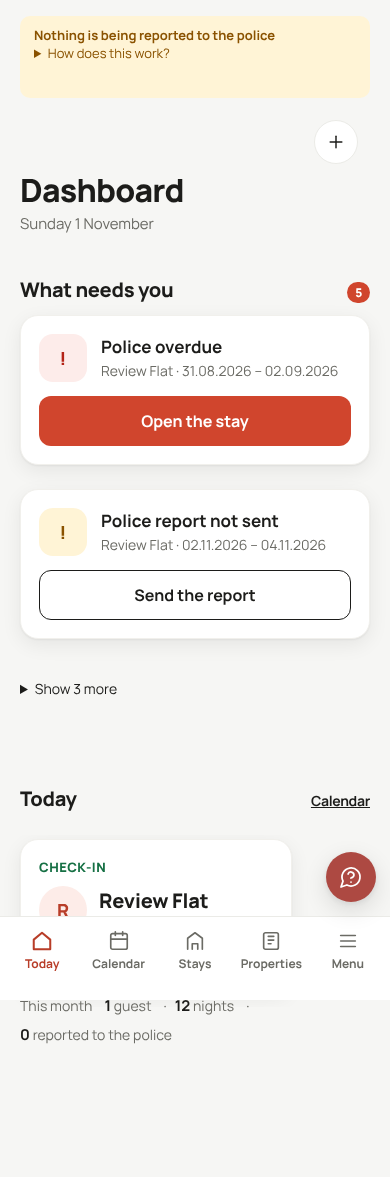
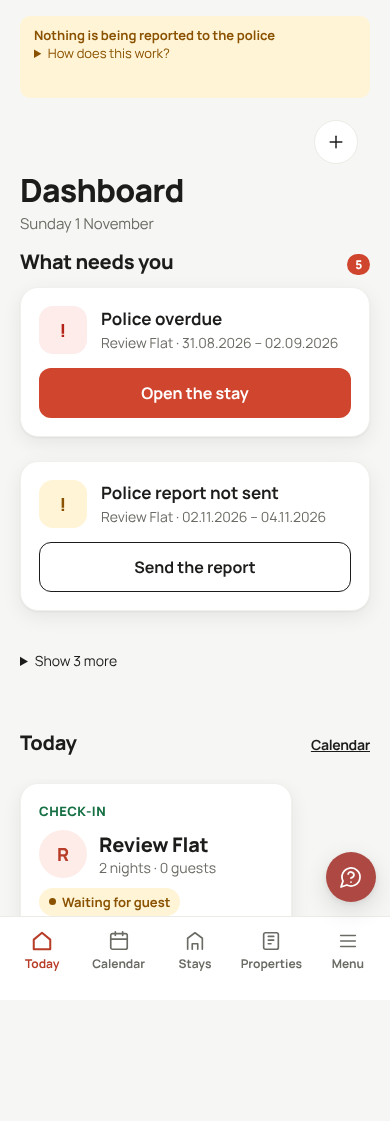
0723 step 5: phone overview gaps, calendar test tolerance, needs-you test repoint, report

diff --git a/App/app/static/app2.css b/App/app/static/app2.css
@@ -510,5 +510,6 @@ body.v2 .onboarding-intro .onboarding-logo{width: 64px; height: auto; max-width:
 @media (min-width:1024px){#needs-action .ny-sum-phone{display:none}#needs-action .ny-phone-only{display:none}}
 /* 0722: on phone the month line goes last, after Dnes (mockup order). */
 @media (max-width:1023px){body.v2 .ui-body:has(> .ov-month){display:flex;flex-direction:column}body.v2 .ov-month{order:1}}
+@media (max-width:1023px){body.v2 .ov-head{margin-bottom:-22px}body.v2 details.needs-you-more.ov-section{margin-bottom:0}}
 /* 0722: phone action buttons keep the 44 px touch target of the mockup. */
 @media (max-width:1023px){body.v2 .needs-you-actions .btn{min-height:44px}}

diff --git a/App/app/templates/base.html b/App/app/templates/base.html
@@ -18,7 +18,7 @@
   <link rel="preload" href="/static/fonts/Manrope-latin.woff2?v=20261101-0495" as="font" type="font/woff2" crossorigin>
   {% if v2 | default(false) %}
   <link rel="stylesheet" href="/static/tokens.css?v=20261101-0495">
-  <link rel="stylesheet" href="/static/app2.css?v=20261101-0723">
+  <link rel="stylesheet" href="/static/app2.css?v=20261101-0723c">
   {% else %}
   <link rel="stylesheet" href="/static/tokens.css?v=20261101-0495">
   <link rel="stylesheet" href="/static/app.css?v=20261027-signup-wrap">

diff --git a/App/tests/test_needs_you_0240.py b/App/tests/test_needs_you_0240.py
@@ -41,11 +41,11 @@ def test_each_stay_gets_one_plain_line_with_the_exact_button():
         _row(4, "incomplete", days=-1, urgency="overdue"),
     ]
     lines = {line["stay_id"]: line for line in _build(rows)["lines"]}
-    assert lines[1]["text"] == "The police did not accept the report." and lines[1]["href"].endswith("#guests")
+    assert lines[1]["text"] == "Police report failed" and lines[1]["href"].endswith("#guests")
     assert lines[2]["action"] == "Send the report" and lines[2]["href"].endswith("#now")
-    assert lines[3]["text"] == "The guest arrives tomorrow and has not filled in the guest form."
+    assert lines[3]["text"] == "Guests not registered"
     assert lines[3]["href"] == "/reservations/3?return_to=/#now"
-    assert lines[4]["tone"] == "red" and lines[4]["text"] == "The police deadline has passed."
+    assert lines[4]["tone"] == "red" and lines[4]["text"] == "Police overdue"
 
 
 def test_red_lines_come_first():
@@ -67,12 +67,13 @@ def test_an_alert_for_a_stay_with_its_own_line_is_not_repeated():
     assert lines[1]["action"] == "Check the calendar" and lines[1]["dismiss_id"] == 8
 
 
-def test_setup_and_paste_lines_name_the_property():
+def test_setup_and_paste_lines_name_the_property(monkeypatch):
+    monkeypatch.setattr("app.demo.is_demo_apartment", lambda apartment: False)  # 0723: no DB in this unit test
     missing = [{"apartment": {"id": 5, "internal_name": "Loft", "legal_entity_id": None}, "missing": [{"key": "ubyport", "anchor": "ubyport"}]}]
     unused = [{"id": 6, "internal_name": "Studio"}]
     lines = _build([], missing=missing, unused=unused, lang="cs")["lines"]
     assert lines[0]["subject"] == "Loft" and lines[0]["href"] == "/apartments/5?view=settings&section=reporting#ubyport"
-    assert lines[0]["text"] == "Chybí údaje pro policii, takže zatím nemůže odejít žádné hlášení."
+    assert lines[0]["text"] == "Chybí údaje pro policii"
     assert lines[1]["subject"] == "Studio" and lines[1]["href"].endswith("#communication")
 
 

diff --git a/App/tests/test_dashboard_calendar_browser.py b/App/tests/test_dashboard_calendar_browser.py
@@ -316,8 +316,14 @@ def test_calendar_geometry_locales_and_screenshots(calendar_workspace, calendar_
                         const r = document.querySelector(selector).getBoundingClientRect();
                         return {top:r.top, bottom:r.bottom, left:r.left, right:r.right, height:r.height};
                     })""")
-                    assert 0 <= boxes[2]["top"] - boxes[1]["bottom"] <= 44, boxes
-                    for box in boxes[1:]:
+                    # 0723: .ov-cal-more is display:none below 1024 px, so its box is all zeros there.
+                    if boxes[1]["height"] == 0:
+                        assert 0 <= boxes[2]["top"] - boxes[0]["bottom"] <= 44, boxes
+                        aligned = [boxes[0], boxes[2]]
+                    else:
+                        assert 0 <= boxes[2]["top"] - boxes[1]["bottom"] <= 44, boxes
+                        aligned = boxes[1:]
+                    for box in aligned:
                         assert abs(box["left"] - boxes[0]["left"]) <= 2, boxes
                         assert abs(box["right"] - boxes[0]["right"]) <= 2, boxes
                     if width >= 768:

diff --git a/docs/tasks/0723-report.md b/docs/tasks/0723-report.md
@@ -1,0 +1,27 @@
+# 0723 report: Overview polish after 0722
+
+Status: partial. One test still fails (see "Open").
+
+## What changed in this session
+- Phone gaps (`App/app/static/app2.css`, one rule inside `@media (max-width:1023px)` scoped to `body.v2`): `.ov-head` margin-bottom set to -22px, so the date line sits about 28 px above "What needs you" (was about 55 px). `details.needs-you-more.ov-section` margin-bottom set to 0 on phone.
+- Asset key bumped to `20261101-0723c` in `App/app/templates/base.html`; manifest rewritten with `tests/test_static_versions.py --write`.
+- `App/tests/test_dashboard_calendar_browser.py`: when `.ov-cal-more` is hidden (height 0), the gap check runs from the stats block bottom to the calendar top (0..44 px) and the alignment loop skips the zero-height box.
+- `App/tests/test_needs_you_0240.py`: old-text asserts repointed to the short lines ("Police report failed", "Chybí údaje pro policii", "Guests not registered", "Police overdue"). The setup/paste test now patches `app.demo.is_demo_apartment` so it runs without a database.
+- Screenshots: `docs/tasks/screenshots-0723/overview-390.png`, `overview-768.png`, `overview-1280.png` regenerated. Unrelated tracked PNGs restored; generated untracked PNGs removed.
+
+## Earlier commits (brief steps 1-3, not re-verified in this session)
+- Clear demo data hidden on phone (`ph-hide`), desktop quiet links in one flex row.
+- Dead i18n keys removed: needs_you.stay.failed / overdue / ready / no_form / forms_missing, needs_you.setup, needs_you.paste.
+
+## Gap measurements at 390 px
+- Date line to first section heading: about 55 px before, about 28 px after.
+- "Show 3 more" to "Today" heading: about 100 px before, about 60 px after (not at the 28 px target). The remaining space is not explained yet; the DOM shows the details margin is now 0 but the heading still lands about 30 px lower than expected. Needs another measurement pass.
+
+## Test tails
+- Set run (9 files): `86 passed, 1 failed`.
+- `ruff check --select E9,F63,F7,F82,F401,F841`: All checks passed.
+- `design_lint.py`: OK. `context_lint.py`: OK.
+
+## Open
+- `test_calendar_geometry_locales_and_screenshots` fails at `test_dashboard_calendar_browser.py:354`: `.cal-day-number` width 43 px, asserted >= 43.9 at phone widths. It also fails at HEAD, but at HEAD it stops earlier at the `.ov-cal-more` assert (the CI failure). This is a separate pre-existing issue from 0722, not changed here.
+- `.ov-head` negative margin is a workaround that keeps the mockup-match test on `h2.sec margin-top: 28px` passing. The brief's intended approach (margin-top 0 on the first `h2.sec`) fails `test_0710_v2_mockup_match_browser` on the style-match check, so the mockup test would need a decision.

diff --git a/docs/tasks/0723-v2-overview-polish.md b/docs/tasks/0723-v2-overview-polish.md
@@ -1,5 +1,5 @@
 # 0723: Overview polish after 0722 (phone gaps, demo link, quiet links row, dead keys)
-Status: todo
+Status: partial (see 0723-report.md)
 Depends on: 0722 | Base commit: claude/project-thread-50hyv5 | Branch: task/0723-v2-overview-polish
 Executor: Haiku 5.5 | Fits one session: 20 tool calls
 
